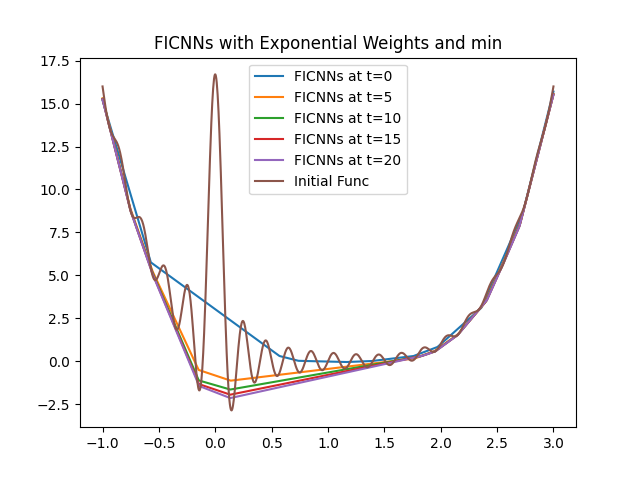
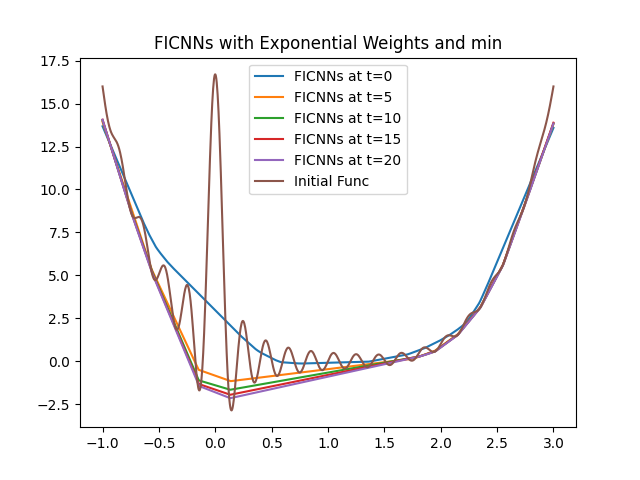
fix 1d exp code

diff --git a/1D_benchmark/FICNNs_exp_GD_opt.py b/1D_benchmark/FICNNs_exp_GD_opt.py
@@ -32,7 +32,7 @@ class FICNNs(nn.Module):
 # Define the domain
 x_min = -1
 x_max = 3
-t_max = 60
+t_max = 20
 x = np.linspace(x_min, x_max, 1000)
 num_points = 10000
 
@@ -121,5 +121,5 @@ torch.save(model, './models/1d_benchmark_T{}.pt'.format(t_max))
 plt.plot(x.detach().numpy(),u_initial.detach().numpy(),label='Initial Func')
 plt.legend()
 plt.title("FICNNs with Exponential Weights and GD")
-plt.savefig("./figures/FICNNs_exp_min_GD_opt_t_{}.png".format(t_max))
+plt.savefig("./figures/FICNNs_exp_min_GD_opt_T_{}.png".format(t_max))
 plt.show()

diff --git a/1D_benchmark/FICNNs_exp_min_GD_all.py b/1D_benchmark/FICNNs_exp_min_GD_all.py
@@ -32,7 +32,7 @@ class FICNNs(nn.Module):
 # Define the domain
 x_min = -1
 x_max = 3
-t_max = 60
+t_max = 20
 x = np.linspace(x_min, x_max, 1000)
 num_points = 10000
 
@@ -120,5 +120,5 @@ for i in range(t_max+1):
 plt.plot(x.detach().numpy(),u_initial.detach().numpy(),label='Initial Func')
 plt.legend()
 plt.title("FICNNs with Exponential Weights and GD")
-plt.savefig("./figures/FICNNs_exp_min_GD_all_t_{}.png".format(t_max))
+plt.savefig("./figures/FICNNs_exp_min_GD_all_T_{}.png".format(t_max))
 plt.show()

diff --git a/1D_benchmark/FICNNs_exp_min.py b/1D_benchmark/FICNNs_exp_min.py
@@ -47,7 +47,7 @@ num_epochs = 10000
 u_initial = gramacy_and_lee(x.detach().numpy())
 u_initial = torch.tensor(u_initial,requires_grad=False)
 
-for i in range(21):
+for i in range(t_max+1):
     for epoch in range(num_epochs):
         # Zero gradients
         optimizer.zero_grad()
